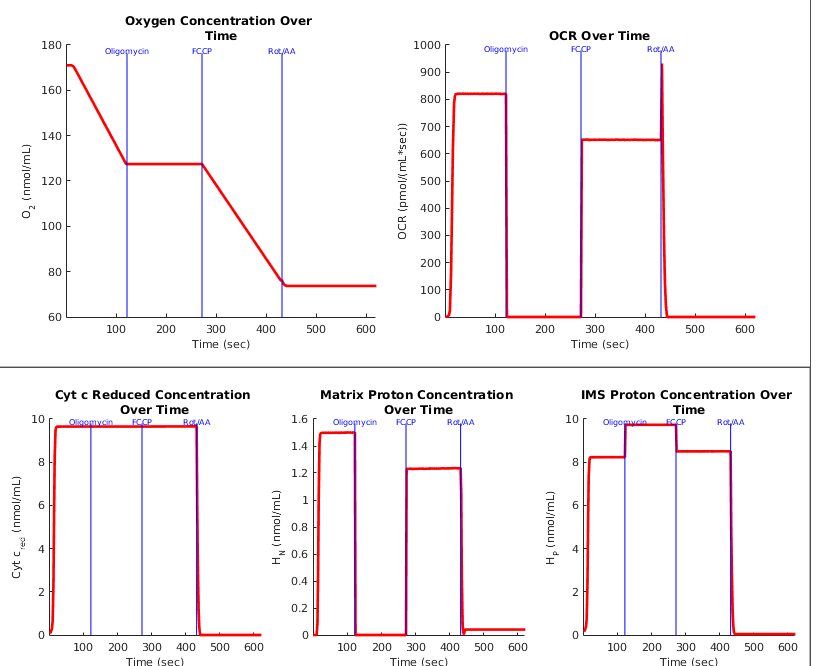
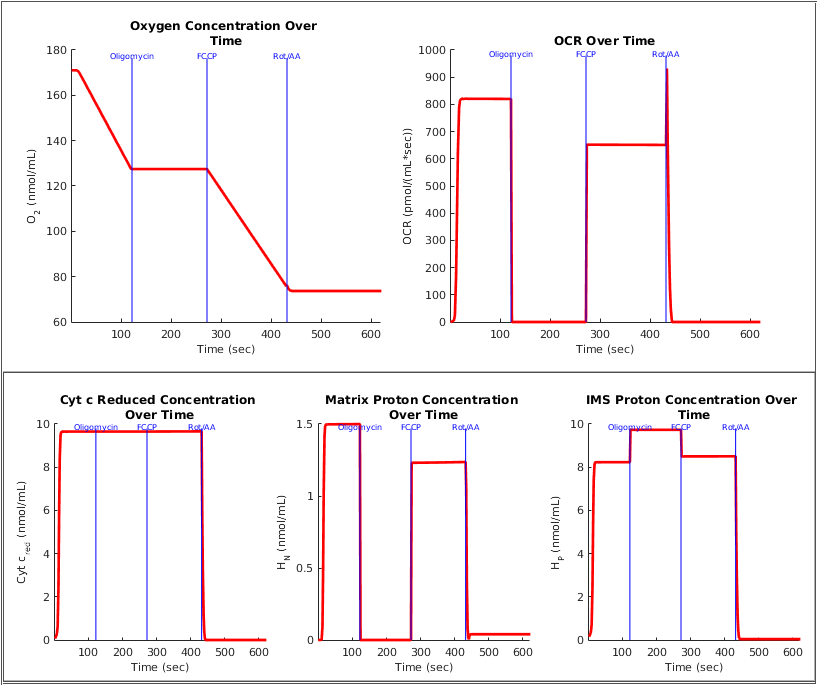
Fix save graphs crop coordinates

Changed region(s): [[0.0, 0.0, 1.0, 1.0]]

diff --git a/DeterministicModel/finalgui.m b/DeterministicModel/finalgui.m
@@ -348,7 +348,7 @@ function save_graphs_Callback(hObject, eventdata, handles)
 image = getframe(gcf);
 
 % crop just the graphs and store that as the image
-image = imcrop(image.cdata,[570,83.5,815,665]);
+image = imcrop(image.cdata,[565,79,817,685]);
 
 try
       %save the image to a file specified by the user
